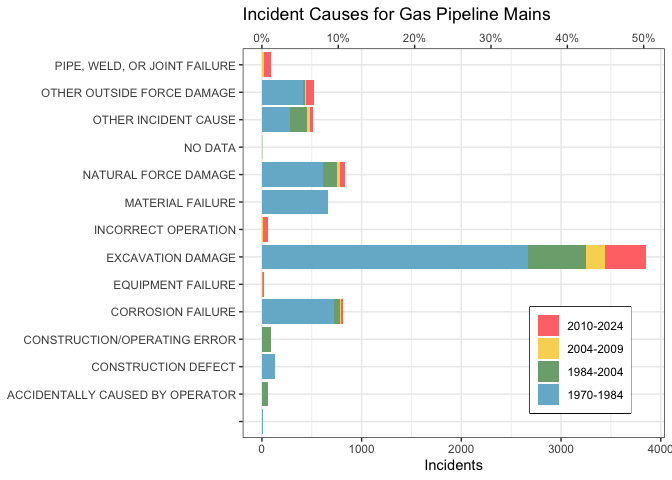
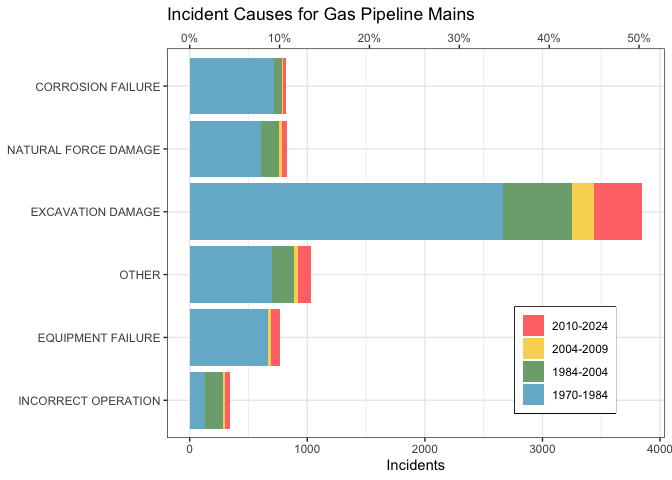
figure updates

diff --git a/README.md b/README.md
@@ -49,12 +49,23 @@ library(ggplot2)
 library(lubridate)
 library(scales)
 library(paletteer)
+library(grid)
 
 # filter for mains
 data(cleaned_full_incident_data_1970_mar2025)
 mains_df <- subset(cleaned_full_incident_data_1970_mar2025, select = c(CAUSE, SOURCE, SYSTEM_PART_INVOLVED, LOCAL_DATETIME, NATURAL_FORCE_TYPE)) %>%
   filter(SYSTEM_PART_INVOLVED == "MAIN") %>%
-  mutate(LOCAL_DATETIME = ymd_hms(LOCAL_DATETIME))
+  mutate(LOCAL_DATETIME = ymd_hms(LOCAL_DATETIME)) %>%
+  mutate(Cause = recode_factor(CAUSE, 
+            "ACCIDENTALLY CAUSED BY OPERATOR" = "INCORRECT OPERATION",
+            "CONSTRUCTION DEFECT/MATERIAL FAILURE" = "EQUIPMENT FAILURE",
+            "CONSTRUCTION/OPERATING ERROR" = "INCORRECT OPERATION",
+            "OTHER INCIDENT CAUSE" = "OTHER",
+            "OTHER OUTSIDE FORCE DAMAGE" = "OTHER",
+            "MATERIAL FAILURE" = "EQUIPMENT FAILURE",
+            "CONSTRUCTION DEFECT" = "INCORRECT OPERATION",
+            "PIPE, WELD, OR JOINT FAILURE" = "EQUIPMENT FAILURE")) %>% 
+  filter((Cause != "NO DATA") & (Cause != ""))
 
 # count total observations
 main_n <- nrow(mains_df)
@@ -63,7 +74,7 @@ main_n <- nrow(mains_df)
 mains_df$SOURCE <- factor(mains_df$SOURCE, levels = c("incident_gas_distribution_jan2010_present", "incident_gas_distribution_mar2004_dec2009", "incident_gas_distribution_mid1984_feb2004", "incident_gas_distribution_1970_mid1984"))
 
 # bar plot
-ggplot(mains_df, aes(x=CAUSE, fill=SOURCE)) + 
+ggplot(mains_df, aes(x=Cause, fill=SOURCE)) + 
   geom_bar() +
   coord_flip() + 
   scale_y_continuous(sec.axis = sec_axis(trans = ~./main_n, labels = percent)) +
